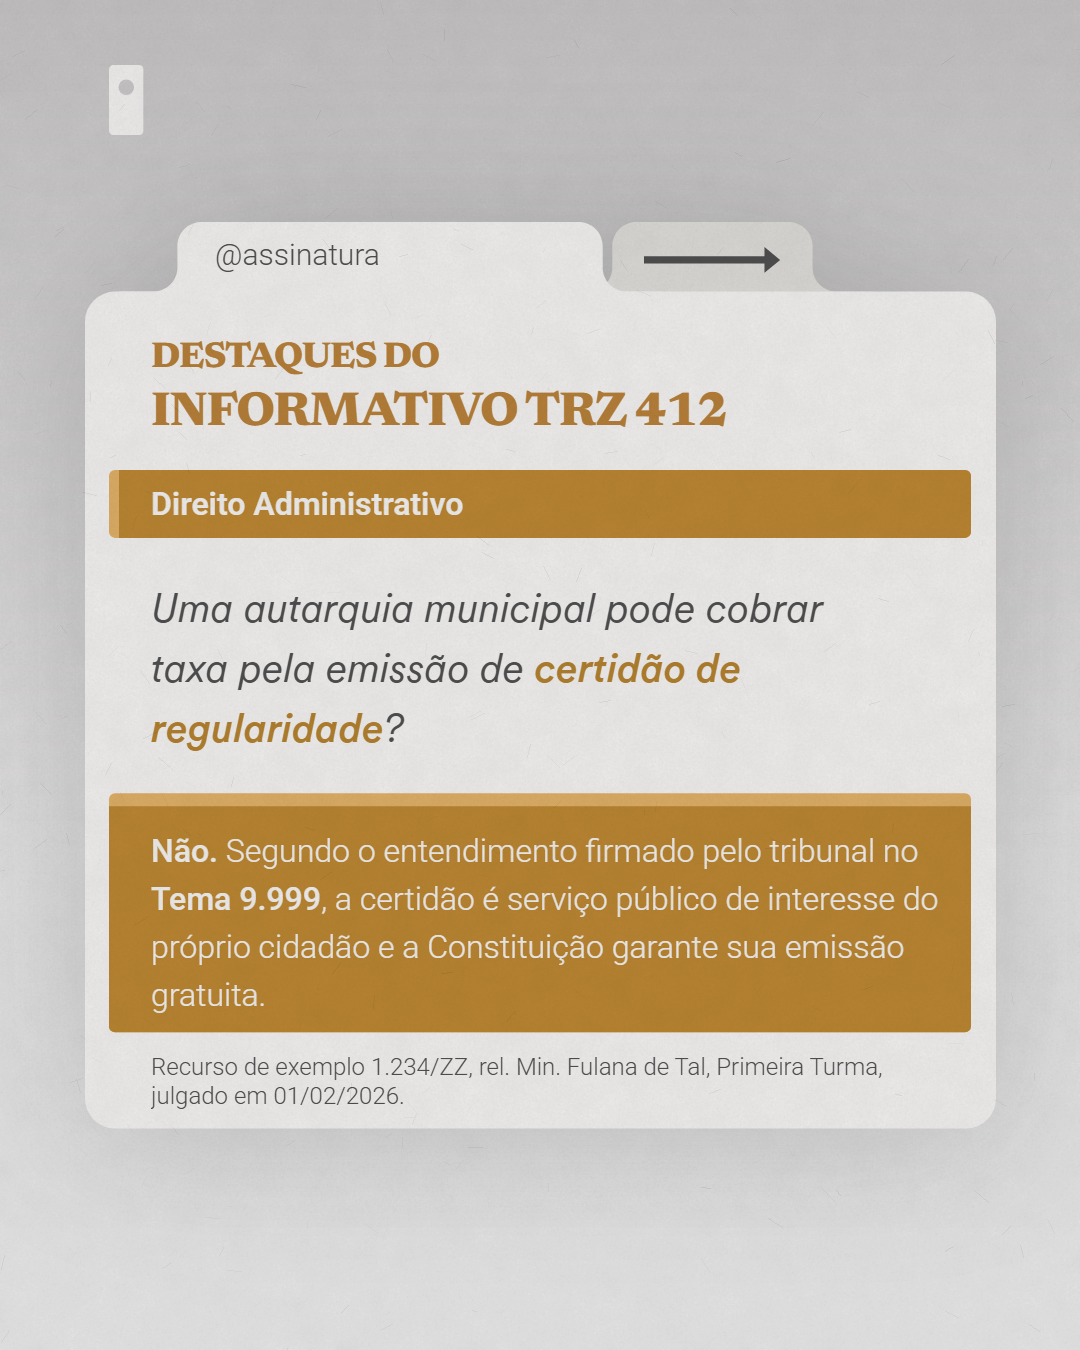
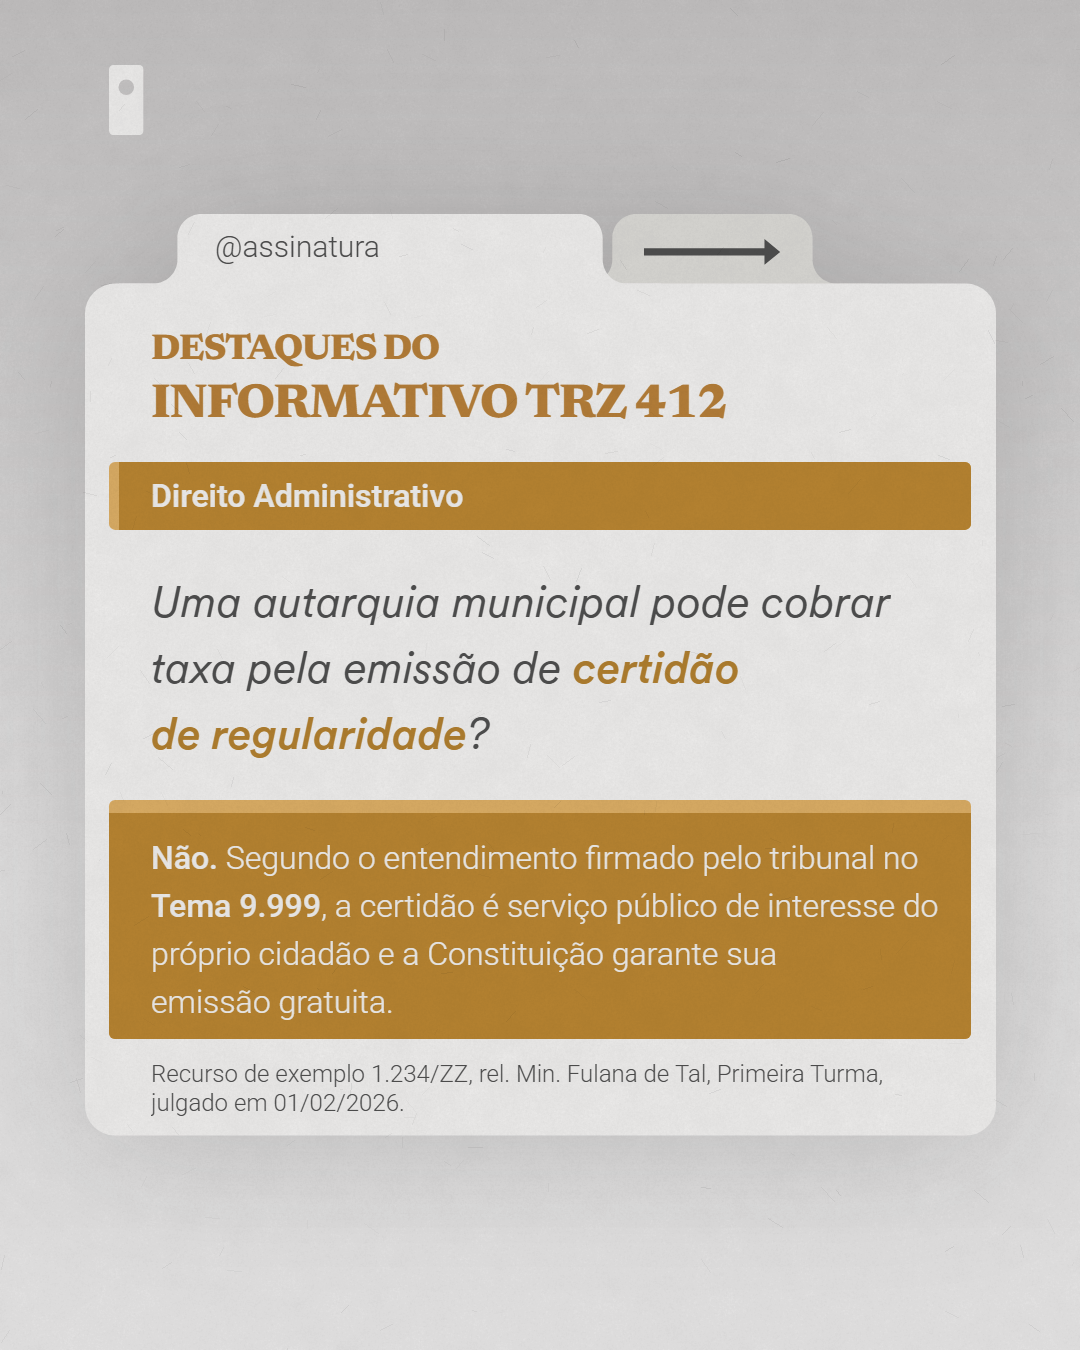
feat: TYTO-699 bump informativo to v0.3.0 (#20)
No line of the question, the answer or the source ends on a one-letter
word or on a word of its own, and the question grows a little, never
gaining a line. The preview is v0.3.0's first frame, without the brand
kit.

diff --git a/README.md b/README.md
@@ -40,7 +40,7 @@ index; which list a machine trusts is the person's choice.
 | voce-conhece        | v0.6.0 |                   |
 | news-da-semana      | v0.3.0 |                   |
 | banner              | v1.1.0 | roxo              |
-| informativo         | v0.2.0 |                   |
+| informativo         | v0.3.0 |                   |
 
 No plugin is listed yet.
 
